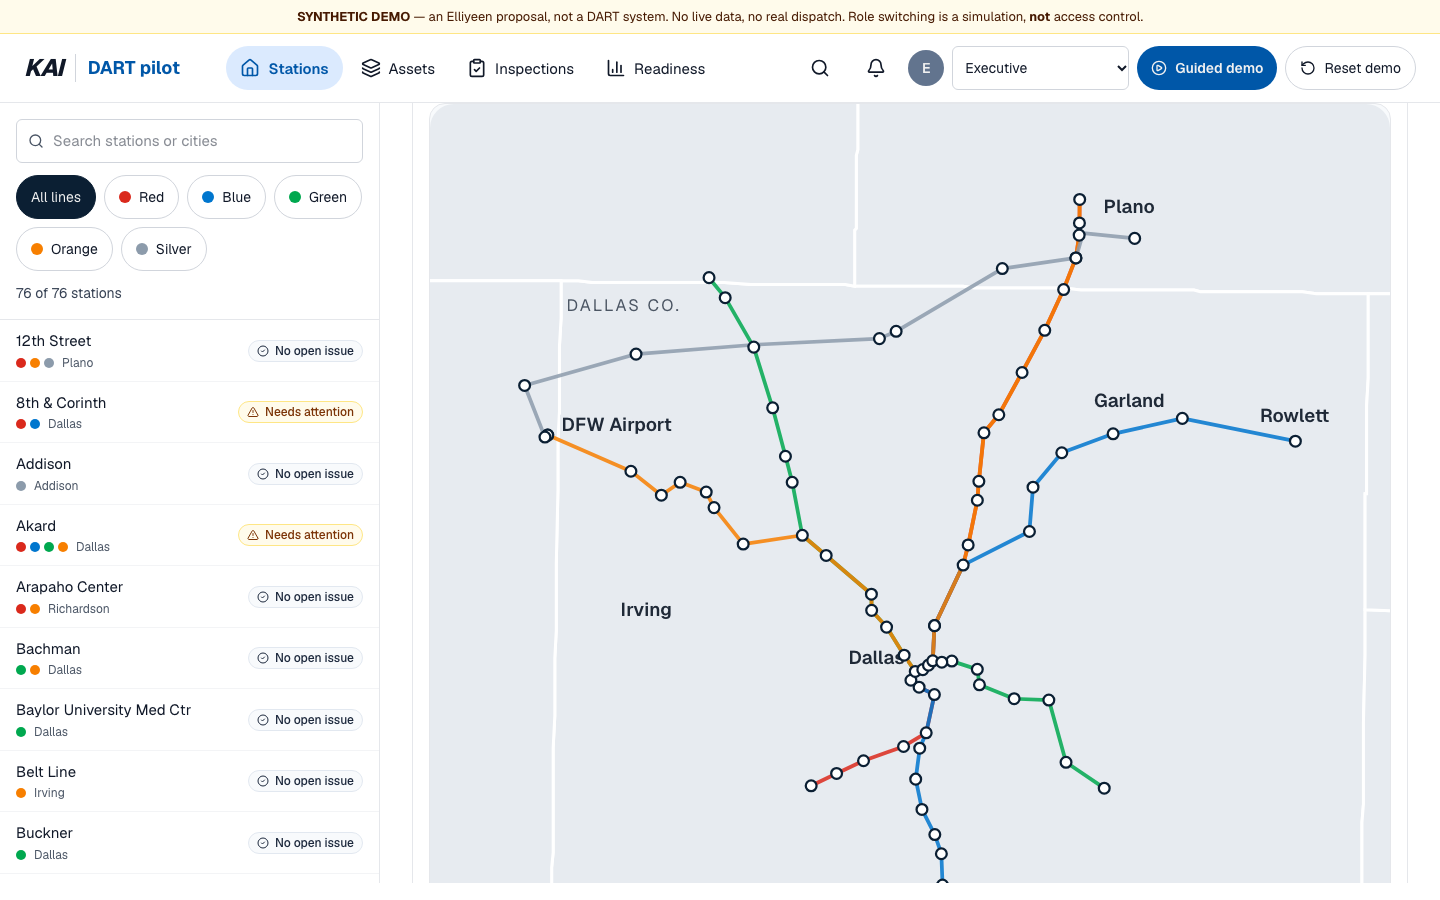
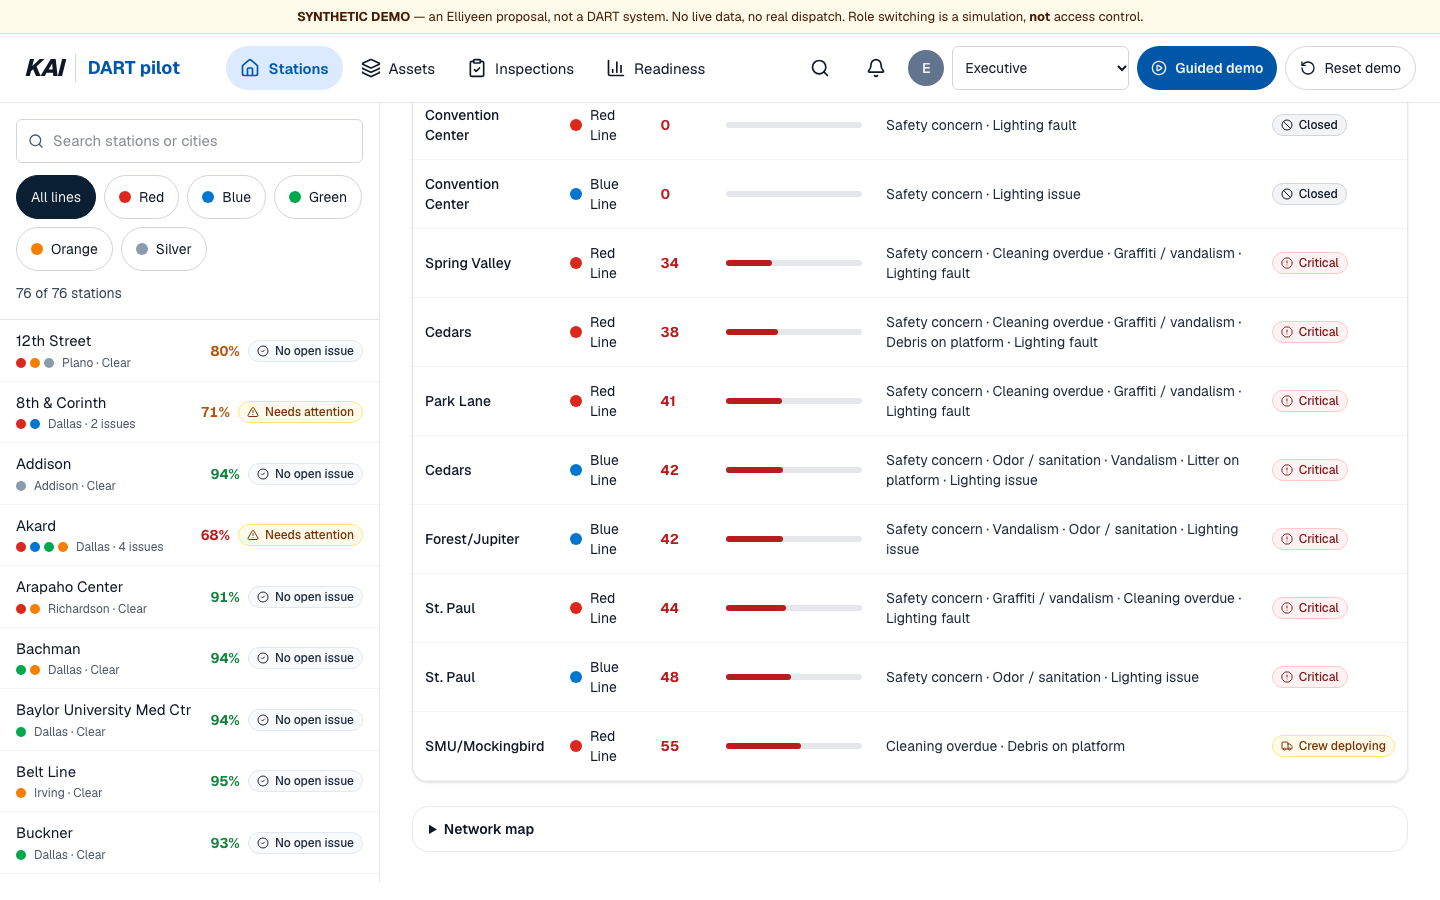
Pilot section for Park Lane, Akard and Spring Valley; image-led Station / Cab & Car / DART Experience lineup
Replaces the data table with a photo-led lineup (Coming soon tags) and marks the three
proposed pilot stations on the map. Nothing is shown as live-connected.

Claude-Session: https://claude.ai/code/session_01LW3JRasRXyxE1xttsifT9B

diff --git a/src/components/landing/RolloutSection.tsx b/src/components/landing/RolloutSection.tsx
@@ -4,14 +4,14 @@ import MapPanel from "@/components/stations/MapPanel";
 import { STATIONS } from "@/lib/stations";
 import { ROLLOUT_LABEL, rolloutOf, type RolloutStatus } from "@/lib/stations/rollout";
 
-const ORDER: RolloutStatus[] = ["connected", "public-data", "pilot-planned", "demo", "not-connected"];
+const ORDER: RolloutStatus[] = ["pilot-planned", "connected", "public-data"];
 
 function Swatch({ status }: { status: RolloutStatus }) {
   return (
     <svg width="18" height="18" viewBox="0 0 18 18" aria-hidden="true">
       {status === "connected" && <circle cx="9" cy="9" r="6" fill="#0057A8" />}
       {status === "public-data" && <circle cx="9" cy="9" r="5.5" fill="#0E7490" stroke="#fff" strokeWidth="1.5" />}
-      {status === "pilot-planned" && <circle cx="9" cy="9" r="6" fill="#fff" stroke="#0057A8" strokeWidth="2" strokeDasharray="3 2" />}
+      {status === "pilot-planned" && <circle cx="9" cy="9" r="6" fill="#fff" stroke="#0057A8" strokeWidth="3" />}
       {status === "demo" && <circle cx="9" cy="9" r="7" fill="#F59E0B" stroke="#0B1F33" strokeWidth="2" />}
       {status === "not-connected" && <circle cx="9" cy="9" r="4" fill="#fff" stroke="#6B7280" strokeWidth="1.5" />}
     </svg>
@@ -24,13 +24,9 @@ export default function RolloutSection() {
     <section id="rollout" className="bg-white py-16 sm:py-24 lg:py-32">
       <div className="max-w-7xl mx-auto px-6 lg:px-8 grid lg:grid-cols-[minmax(0,5fr)_minmax(0,6fr)] gap-10 lg:gap-16 items-center">
         <FadeUp>
-          <h2 className="text-4xl sm:text-5xl font-light tracking-[-0.02em] leading-[1.05]">Bringing stations online.</h2>
-          <p className="mt-6 text-lg text-gray-800 leading-relaxed font-light">
-            Every station on the map is linked to DART&rsquo;s official public schedule data (<strong className="font-semibold" data-testid="rollout-public">{count("public-data") + count("demo")} of {STATIONS.length}</strong>). <strong className="font-semibold" data-testid="rollout-connected">{count("connected")} stations</strong> are connected to live DART condition data today. Akard also runs the synthetic demo.
-          </p>
-          <p className="mt-4 text-lg text-gray-800 leading-relaxed font-light">
-            As stations are approved and connected to live inspection and asset data, they appear on this map with their data source and last verified time. Nothing is shown as live without evidence.
-          </p>
+          <h2 className="text-4xl sm:text-5xl font-light tracking-[-0.02em] leading-[1.05]" data-testid="pilot-title">Pilot for Park Lane, Akard and Spring Valley Station</h2>
+          <p className="mt-6 text-xl text-gray-800 leading-relaxed font-light">to improve the readiness of each station to set the standard for clean transportation in North Texas.</p>
+          <p className="sr-only" data-testid="rollout-connected">{count("connected")} stations connected to live DART data</p>
           <div className="mt-8 flex flex-col sm:flex-row gap-3">
             <Link href="/stations" className="font-ui inline-flex items-center justify-center min-h-11 px-8 text-[13px] font-bold tracking-[0.05em] text-white hover:opacity-90" style={{ background: "#0057A8" }}>Explore the stations</Link>
             <Link href="/contact" className="font-ui inline-flex items-center justify-center min-h-11 px-8 text-[13px] font-bold tracking-[0.05em] border border-gray-300 text-gray-900 hover:bg-gray-50">Talk about a pilot</Link>
@@ -40,7 +36,7 @@ export default function RolloutSection() {
           <MapPanel mode="rollout" />
           <ul className="mt-4 flex flex-wrap gap-x-6 gap-y-2 text-sm text-gray-900" aria-label="Map legend" data-testid="rollout-legend">
             {ORDER.map((s) => (
-              <li key={s} className="inline-flex items-center gap-2"><Swatch status={s} />{ROLLOUT_LABEL[s]}{s !== "not-connected" && <span className="text-gray-600"> · {count(s)}</span>}</li>
+              <li key={s} className="inline-flex items-center gap-2"><Swatch status={s} />{s === "pilot-planned" ? "Pilot site (proposed)" : ROLLOUT_LABEL[s]}<span className="text-gray-600"> · {count(s)}</span></li>
             ))}
           </ul>
         </FadeUp>

diff --git a/src/components/landing/ExperienceLineup.tsx b/src/components/landing/ExperienceLineup.tsx
@@ -1,0 +1,54 @@
+"use client";
+
+import Image from "next/image";
+import { useRef, useState } from "react";
+import { IMAGES, img } from "./assets";
+
+const ITEMS = [
+  { id: "station", name: "Station", tag: "Pilot", image: IMAGES.lineStation, body: "Park Lane, Akard and Spring Valley first." },
+  { id: "car", name: "Cab & Car", tag: "Coming soon", image: IMAGES.lineCar, body: "Cleaner, safer rides on board." },
+  { id: "experience", name: "DART Experience", tag: "Coming soon", image: IMAGES.lineExperience, body: "One connected ride, door to door." },
+] as const;
+
+/** Image-led lineup: one big photo, three columns with a top bar; the active column is bright, the others dim. */
+export default function ExperienceLineup() {
+  const [active, setActive] = useState(0);
+  const refs = useRef<(HTMLButtonElement | null)[]>([]);
+  const onKeyDown = (e: React.KeyboardEvent, i: number) => {
+    let next = i;
+    if (e.key === "ArrowRight") next = (i + 1) % ITEMS.length;
+    else if (e.key === "ArrowLeft") next = (i - 1 + ITEMS.length) % ITEMS.length;
+    else return;
+    e.preventDefault();
+    setActive(next);
+    refs.current[next]?.focus();
+  };
+  return (
+    <div>
+      <div className="relative aspect-[4/3] sm:aspect-[16/9] overflow-hidden rounded-2xl bg-gray-100">
+        {ITEMS.map((it, i) => (
+          <Image key={it.id} src={img(it.image.file)} alt={i === active ? it.image.alt : ""} aria-hidden={i !== active} fill sizes="(min-width:1280px) 1200px, 100vw"
+            className={`object-cover transition-opacity duration-500 motion-reduce:transition-none ${i === active ? "opacity-100" : "opacity-0"}`} />
+        ))}
+      </div>
+      <div role="tablist" aria-label="DART experience" className="mt-6 grid md:grid-cols-3 gap-x-6 gap-y-2">
+        {ITEMS.map((it, i) => (
+          <button key={it.id} ref={(el) => { refs.current[i] = el; }} role="tab" id={`exp-${it.id}`} aria-selected={active === i} aria-controls={`exp-panel-${it.id}`}
+            tabIndex={active === i ? 0 : -1} onClick={() => setActive(i)} onKeyDown={(e) => onKeyDown(e, i)}
+            className="w-full text-left min-h-11 pt-4 border-t-4 transition-colors focus-visible:outline-2 focus-visible:outline-offset-4 focus-visible:outline-[#0057A8]"
+            style={{ borderTopColor: active === i ? "#0B1F33" : "#D1D5DB" }}>
+            <span className={`flex flex-wrap items-center gap-3 text-2xl sm:text-3xl font-medium tracking-[-0.01em] ${active === i ? "text-gray-900" : "text-gray-600"}`}>
+              {it.name}
+              <span className="text-[11px] font-medium tracking-wide border border-gray-300 text-gray-700 bg-gray-50 rounded px-2 py-0.5">{it.tag}</span>
+            </span>
+          </button>
+        ))}
+      </div>
+      <div className="mt-3 grid md:grid-cols-3 gap-x-6">
+        {ITEMS.map((it, i) => active === i
+          ? <p key={it.id} id={`exp-panel-${it.id}`} role="tabpanel" aria-labelledby={`exp-${it.id}`} className="text-lg text-gray-900 md:col-start-[var(--c)]" style={{ ["--c" as string]: i + 1 }}>{it.body}</p>
+          : <p key={it.id} aria-hidden="true" className="hidden md:block text-lg text-gray-600 md:col-start-[var(--c)]" style={{ ["--c" as string]: i + 1 }}>{it.body}</p>)}
+      </div>
+    </div>
+  );
+}

diff --git a/src/components/stations/MapPanel.tsx b/src/components/stations/MapPanel.tsx
@@ -62,7 +62,7 @@ function SvgCountyMap({ mode = "network", selectedKey, line, onSelect }: MapProp
       if (st === "demo") return <circle key={s.key} cx={x} cy={y} r={8} fill="#F59E0B" stroke="#0B1F33" strokeWidth={2}><title>{`${s.name} — ${ROLLOUT_LABEL[st]}`}</title></circle>;
       if (st === "connected") return <circle key={s.key} cx={x} cy={y} r={6} fill="#0057A8" stroke="#fff" strokeWidth={1.5}><title>{`${s.name} — ${ROLLOUT_LABEL[st]}`}</title></circle>;
       if (st === "public-data") return <circle key={s.key} cx={x} cy={y} r={4.6} fill="#0E7490" stroke="#fff" strokeWidth={1.4}><title>{`${s.name} — ${ROLLOUT_LABEL[st]}`}</title></circle>;
-      if (st === "pilot-planned") return <circle key={s.key} cx={x} cy={y} r={6} fill="#fff" stroke="#0057A8" strokeWidth={2} strokeDasharray="3 2"><title>{`${s.name} — ${ROLLOUT_LABEL[st]}`}</title></circle>;
+      if (st === "pilot-planned") return <circle key={s.key} cx={x} cy={y} r={8} fill="#fff" stroke="#0057A8" strokeWidth={3}><title>{`${s.name} — ${ROLLOUT_LABEL[st]}`}</title></circle>;
       return <circle key={s.key} cx={x} cy={y} r={3.6} fill="#fff" stroke="#6B7280" strokeWidth={1.4}><title>{`${s.name} — ${ROLLOUT_LABEL[st]}`}</title></circle>;
     }
     return (
@@ -83,7 +83,7 @@ function SvgCountyMap({ mode = "network", selectedKey, line, onSelect }: MapProp
           {g.paths.map((p) => <path key={p.id} d={p.d} fill="none" stroke={p.color} strokeWidth={rollout ? 2 : 2.5} opacity={rollout ? 0.3 : !line || line === p.id ? 0.85 : 0.12} strokeLinejoin="round" />)}
           {CITIES.map((c) => { const [x, y] = g.proj(c.lat, c.lng); return <text key={c.name} x={x + c.dx} y={y + c.dy} textAnchor={c.anchor} fontSize="12.5" fontWeight="600" fill="#1F2937" paintOrder="stroke" stroke="#E7EBF0" strokeWidth="4">{c.name}</text>; })}
           {STATIONS.map(dot)}
-          {rollout && (() => { const a = STATIONS.find((s) => rolloutOf(s.key) === "demo"); if (!a) return null; const [x, y] = g.proj(a.lat, a.lng); return <text x={x + 14} y={y + 4} fontSize="13" fontWeight="700" fill="#0B1F33" paintOrder="stroke" stroke="#fff" strokeWidth="4">{a.name} (demo)</text>; })()}
+          {rollout && STATIONS.filter((st) => rolloutOf(st.key) === "pilot-planned").map((a) => { const [x, y] = g.proj(a.lat, a.lng); return <text key={a.key} x={x + 12} y={y + 4} fontSize="13" fontWeight="700" fill="#0B1F33" paintOrder="stroke" stroke="#fff" strokeWidth="4">{a.name}</text>; })}
           {!rollout && sel && (() => { const [x, y] = g.proj(sel.lat, sel.lng); return <text x={Math.min(x + 12, W - 110)} y={y - 10} fontSize="14" fill="#0B1F33" fontWeight="600" paintOrder="stroke" stroke="#fff" strokeWidth="4">{sel.name}</text>; })()}
         </g>
       </svg>

diff --git a/tests/e2e/landing.spec.ts b/tests/e2e/landing.spec.ts
@@ -30,20 +30,29 @@ test("landing: no tournament content, CTAs reach the platform, tabs and accordio
   await expect(page).toHaveURL(/\/stations\/?$/);
 });
 
-test("rollout map is honest: nothing connected, Akard is the demo station", async ({ page }) => {
+test("pilot section names the three pilot stations; nothing is shown as live", async ({ page }) => {
   await page.goto("");
-  await expect(page.getByRole("heading", { name: "Bringing stations online." })).toBeVisible();
-  await expect(page.getByTestId("rollout-connected")).toHaveText("0 stations");
+  await expect(page.getByTestId("pilot-title")).toHaveText("Pilot for Park Lane, Akard and Spring Valley Station");
+  await expect(page.getByText("to improve the readiness of each station to set the standard for clean transportation in North Texas.")).toBeVisible();
+  await expect(page.getByText("Bringing stations online.")).toHaveCount(0);
   const legend = page.getByTestId("rollout-legend");
+  await expect(legend).toContainText("Pilot site (proposed) · 3");
   await expect(legend).toContainText("Connected to live data · 0");
-  await expect(legend).toContainText("Public schedule data connected · 75");
-  await expect(page.getByTestId("rollout-public")).toHaveText("76 of 76");
-  await expect(legend).toContainText("Demo station (synthetic) · 1");
-  await expect(legend).toContainText("Not yet connected");
-  const map = page.getByTestId("map-rollout");
-  await expect(map.locator("circle")).toHaveCount(76);
-  await expect(map.getByText("Akard (demo)")).toBeVisible();
-  await expect(map.getByText("DALLAS CO.")).toBeVisible();
+  await expect(legend).toContainText("Public schedule data connected · 73");
+  await expect(page.getByTestId("map-rollout").locator("circle")).toHaveCount(76);
+  for (const n of ["Park Lane", "Akard", "Spring Valley"]) await expect(page.getByTestId("map-rollout").getByText(n, { exact: true })).toBeVisible();
+});
+
+test("image-led experience lineup replaces the data table", async ({ page }) => {
+  await page.goto("");
+  await expect(page.getByText("Only what can be sourced.")).toHaveCount(0);
+  const tabs = page.getByRole("tablist", { name: "DART experience" });
+  await expect(tabs.getByRole("tab", { name: /Station/ })).toHaveAttribute("aria-selected", "true");
+  await expect(tabs).toContainText("Coming soon");
+  await tabs.getByRole("tab", { name: /Cab & Car/ }).click();
+  await expect(page.locator("#exp-panel-car")).toBeVisible();
+  await tabs.getByRole("tab", { name: /DART Experience/ }).press("ArrowLeft");
+  await expect(tabs.getByRole("tab", { name: /Cab & Car/ })).toHaveAttribute("aria-selected", "true");
 });
 
 test("old World Cup route is gone", async ({ request }) => {

diff --git a/src/components/stations/StationsMapbox.tsx b/src/components/stations/StationsMapbox.tsx
@@ -33,16 +33,16 @@ export default function StationsMapbox({ token, mode, line, selectedKey, onSelec
       map.addLayer({
         id: "stations", type: "circle", source: "stations",
         paint: rollout ? {
-          "circle-radius": ["match", ["get", "rollout"], "demo", 9, "connected", 7, "pilot-planned", 7, "public-data", 5.5, 4.5],
+          "circle-radius": ["match", ["get", "rollout"], "demo", 9, "connected", 7, "pilot-planned", 9, "public-data", 5.5, 4.5],
           "circle-color": ["match", ["get", "rollout"], "demo", "#F59E0B", "connected", "#0057A8", "public-data", "#0E7490", "#FFFFFF"],
           "circle-stroke-color": ["match", ["get", "rollout"], "demo", "#0B1F33", "connected", "#FFFFFF", "public-data", "#FFFFFF", "pilot-planned", "#0057A8", "#6B7280"],
-          "circle-stroke-width": ["match", ["get", "rollout"], "demo", 2.5, 1.6],
+          "circle-stroke-width": ["match", ["get", "rollout"], "demo", 2.5, "pilot-planned", 3.5, 1.6],
         } : { "circle-radius": 4.5, "circle-color": "#FFFFFF", "circle-stroke-color": "#0B1F33", "circle-stroke-width": 1.6 },
       });
       map.addLayer({ id: "selected", type: "circle", source: "stations", filter: ["==", ["get", "key"], ""], paint: { "circle-radius": 9, "circle-color": "#0B1F33", "circle-stroke-color": "#FFFFFF", "circle-stroke-width": 2 } });
       map.addLayer({
-        id: "labels", type: "symbol", source: "stations", filter: rollout ? ["==", ["get", "rollout"], "demo"] : ["==", ["get", "key"], ""],
-        layout: { "text-field": rollout ? ["concat", ["get", "name"], " (demo)"] : ["get", "name"], "text-size": 13, "text-offset": [0, -1.4], "text-anchor": "bottom", "text-font": ["DIN Pro Bold", "Arial Unicode MS Bold"] },
+        id: "labels", type: "symbol", source: "stations", filter: rollout ? ["in", ["get", "rollout"], ["literal", ["demo", "pilot-planned"]]] : ["==", ["get", "key"], ""],
+        layout: { "text-field": ["get", "name"], "text-size": 13, "text-offset": [0, -1.4], "text-anchor": "bottom", "text-font": ["DIN Pro Bold", "Arial Unicode MS Bold"] },
         paint: { "text-color": "#0B1F33", "text-halo-color": "#FFFFFF", "text-halo-width": 2 },
       });
 

diff --git a/src/components/landing/sections.tsx b/src/components/landing/sections.tsx
@@ -125,43 +125,6 @@ export function WorkflowSteps() {
   );
 }
 
-export function OperationalIntelligence() {
-  const rows = [
-    { m: "Station readiness", v: "Not connected", c: "Requires DART data access" },
-    { m: "Cleanliness status", v: "Unknown", c: "No verified inspection feed" },
-    { m: "Open issues", v: "Demo data", c: "Synthetic scenario in the live demo" },
-    { m: "Last verified update", v: "None", c: "Nothing is shown as live" },
-  ];
-  return (
-    <div>
-      <div className="overflow-x-auto">
-        <table className="w-full text-left text-sm">
-          <caption className="sr-only">Operational measures and their data status</caption>
-          <thead>
-            <tr className="border-b border-gray-300 text-[11px] tracking-[0.15em] uppercase text-gray-600">
-              <th scope="col" className="py-3 pr-4 font-medium">Measure</th>
-              <th scope="col" className="py-3 pr-4 font-medium">Status</th>
-              <th scope="col" className="py-3 font-medium">Classification</th>
-            </tr>
-          </thead>
-          <tbody>
-            {rows.map((r) => (
-              <tr key={r.m} className="border-b border-gray-200">
-                <th scope="row" className="py-4 pr-4 font-light text-base">{r.m}</th>
-                <td className="py-4 pr-4 text-base">{r.v}</td>
-                <td className="py-4 text-gray-700 font-light">{r.c}</td>
-              </tr>
-            ))}
-          </tbody>
-        </table>
-      </div>
-      <p className="mt-6 text-sm text-gray-600 max-w-2xl">
-        KAI is an Elliyeen demonstration and proposed pilot. It is not a DART-approved or DART-operated system, and no figure here is DART performance data. Every metric in a pilot would carry its source, observation time and freshness.
-      </p>
-    </div>
-  );
-}
-
 export function FinalCTA() {
   return (
     <section className="relative py-24 sm:py-36 overflow-hidden text-white">

diff --git a/src/app/page.tsx b/src/app/page.tsx
@@ -3,7 +3,8 @@ import Nav from "@/components/Nav";
 import FadeUp from "@/components/FadeUp";
 import ExperienceTabs from "@/components/landing/ExperienceTabs";
 import RolloutSection from "@/components/landing/RolloutSection";
-import { CinematicHero, HeroIntro, ProofSection, WorkflowSteps, OperationalIntelligence, FinalCTA } from "@/components/landing/sections";
+import ExperienceLineup from "@/components/landing/ExperienceLineup";
+import { CinematicHero, HeroIntro, ProofSection, WorkflowSteps, FinalCTA } from "@/components/landing/sections";
 
 const Eyebrow = ({ children }: { children: React.ReactNode }) => (
   <p className="text-[11px] font-medium tracking-[0.3em] text-gray-600 mb-4 uppercase">{children}</p>
@@ -42,13 +43,10 @@ export default function Home() {
           </div>
         </section>
 
-        <section id="evidence" className="bg-white py-16 sm:py-24 lg:py-32">
+        <section id="experience" className="bg-white py-16 sm:py-24 lg:py-32">
           <div className="max-w-7xl mx-auto px-6 lg:px-8">
-            <FadeUp>
-              <Eyebrow>Operational Intelligence</Eyebrow>
-              <h2 className="text-3xl sm:text-4xl lg:text-5xl font-light tracking-[-0.02em] mb-10 lg:mb-14">Only what can be sourced.</h2>
-            </FadeUp>
-            <OperationalIntelligence />
+            <FadeUp><h2 className="text-3xl sm:text-4xl lg:text-5xl font-light tracking-[-0.02em] mb-10 lg:mb-14">The DART experience, upgraded.</h2></FadeUp>
+            <ExperienceLineup />
           </div>
         </section>
 

diff --git a/tests/unit/rollout.test.ts b/tests/unit/rollout.test.ts
@@ -17,14 +17,14 @@ describe("rollout status", () => {
         expect(Date.parse(e.evidence.connectedAt), k).not.toBeNaN();
       }
   });
-  it("starts honest: nothing is LIVE-connected; Akard is the single demo station", () => {
+  it("starts honest: nothing is LIVE-connected; the proposed pilot sites are Park Lane, Akard and Spring Valley", () => {
     expect(STATIONS.filter((s) => rolloutOf(s.key) === "connected")).toHaveLength(0);
-    expect(STATIONS.filter((s) => rolloutOf(s.key) === "demo").map((s) => s.key)).toEqual(["akard"]);
+    expect(STATIONS.filter((s) => rolloutOf(s.key) === "pilot-planned").map((s) => s.name).sort()).toEqual(["Akard", "Park Lane", "Spring Valley"]);
   });
   it("links every station to official public schedule data (derived, never hand-set)", () => {
     const states = STATIONS.map((s) => rolloutOf(s.key));
     expect(states.filter((x) => x === "not-connected")).toHaveLength(0);
-    expect(states.filter((x) => x === "public-data")).toHaveLength(STATIONS.length - 1); // Akard shows as the demo station
+    expect(states.filter((x) => x === "public-data")).toHaveLength(STATIONS.length - 3); // the 3 pilot sites show as pilot-planned
     for (const s of STATIONS) expect(publicStopFor(s.key), s.key).toBeTruthy();
     expect(Object.values(ROLLOUT).some((e) => (e.status as string) === "public-data")).toBe(false);
   });

diff --git a/src/lib/stations/rollout.ts b/src/lib/stations/rollout.ts
@@ -10,15 +10,18 @@ export type RolloutEntry =
  *  It means PUBLIC SCHEDULE data only — not live condition, inspection or asset data. */
 export type RolloutStatus = RolloutEntry["status"] | "public-data" | "not-connected";
 
-/** Keyed by canonical station key (see STATIONS). Anything absent is "not-connected". */
-export const ROLLOUT: Record<string, RolloutEntry> = {
-  akard: { status: "demo" },
-};
+/** Proposed pilot sites (by station name). Keyed to canonical station keys below. */
+export const PILOT_STATION_NAMES = ["Park Lane", "Akard", "Spring Valley"] as const;
 
 import { STATIONS } from "./index";
 import { PUBLIC_STOPS } from "./publicData.generated";
 
 /** Official stop for a physical station, merged across its line-membership records (notes and unconfirmed lines are kept). */
+/** Keyed by canonical station key. Pilot sites are "pilot-planned" (a proposal, not a live connection). */
+export const ROLLOUT: Record<string, RolloutEntry> = Object.fromEntries(
+  PILOT_STATION_NAMES.map((n) => [STATIONS.find((s) => s.name === n)!.key, { status: "pilot-planned", note: "Proposed pilot site" } as RolloutEntry]),
+);
+
 export const publicStopFor = (stationKey: string) => {
   const st = STATIONS.find((x) => x.key === stationKey);
   const stops = st ? st.recordIds.map((id) => PUBLIC_STOPS[id]).filter(Boolean) : [];

diff --git a/src/components/landing/assets.ts b/src/components/landing/assets.ts
@@ -12,5 +12,8 @@ export const IMAGES = {
   lineupOps: { file: "DartredlineParker.jpg", alt: "Teal DART train signed for Parker Road arriving at a platform at night" },
   lineupIntel: { file: "20260314_083035.jpg", alt: "Yellow-and-white DART train at a station platform with its doors open" },
   statement: { file: "DartredlineParker.jpg", alt: "Teal DART train signed for Parker Road arriving at a platform at night" },
+  lineStation: { file: "20260227_124144.jpg", alt: "Park Lane Station sign with a DART train arriving on a clear day" },
+  lineCar: { file: "20260314_083035.jpg", alt: "Yellow-and-white DART train at a station platform with its doors open" },
+  lineExperience: { file: "parkeroad.jpg", alt: "Blue DART train at a platform at night with a yellow safety bollard" },
   cta: { file: "20260227_124144.jpg", alt: "Park Lane DART Station" },
 } as const;

diff --git a/tests/unit/geojson.test.ts b/tests/unit/geojson.test.ts
@@ -7,7 +7,7 @@ describe("Mapbox GeoJSON", () => {
     const g = stationsGeoJSON();
     expect(g.features).toHaveLength(STATIONS.length);
     const akard = g.features.find((f) => f.properties.key === "akard")!;
-    expect(akard.properties.rollout).toBe("demo");
+    expect(akard.properties.rollout).toBe("pilot-planned");
     expect(akard.geometry.coordinates[0]).toBeLessThan(-96); // longitude first
     expect(akard.geometry.coordinates[1]).toBeGreaterThan(32);
     expect(g.features.filter((f) => f.properties.rollout === "connected")).toHaveLength(0);
